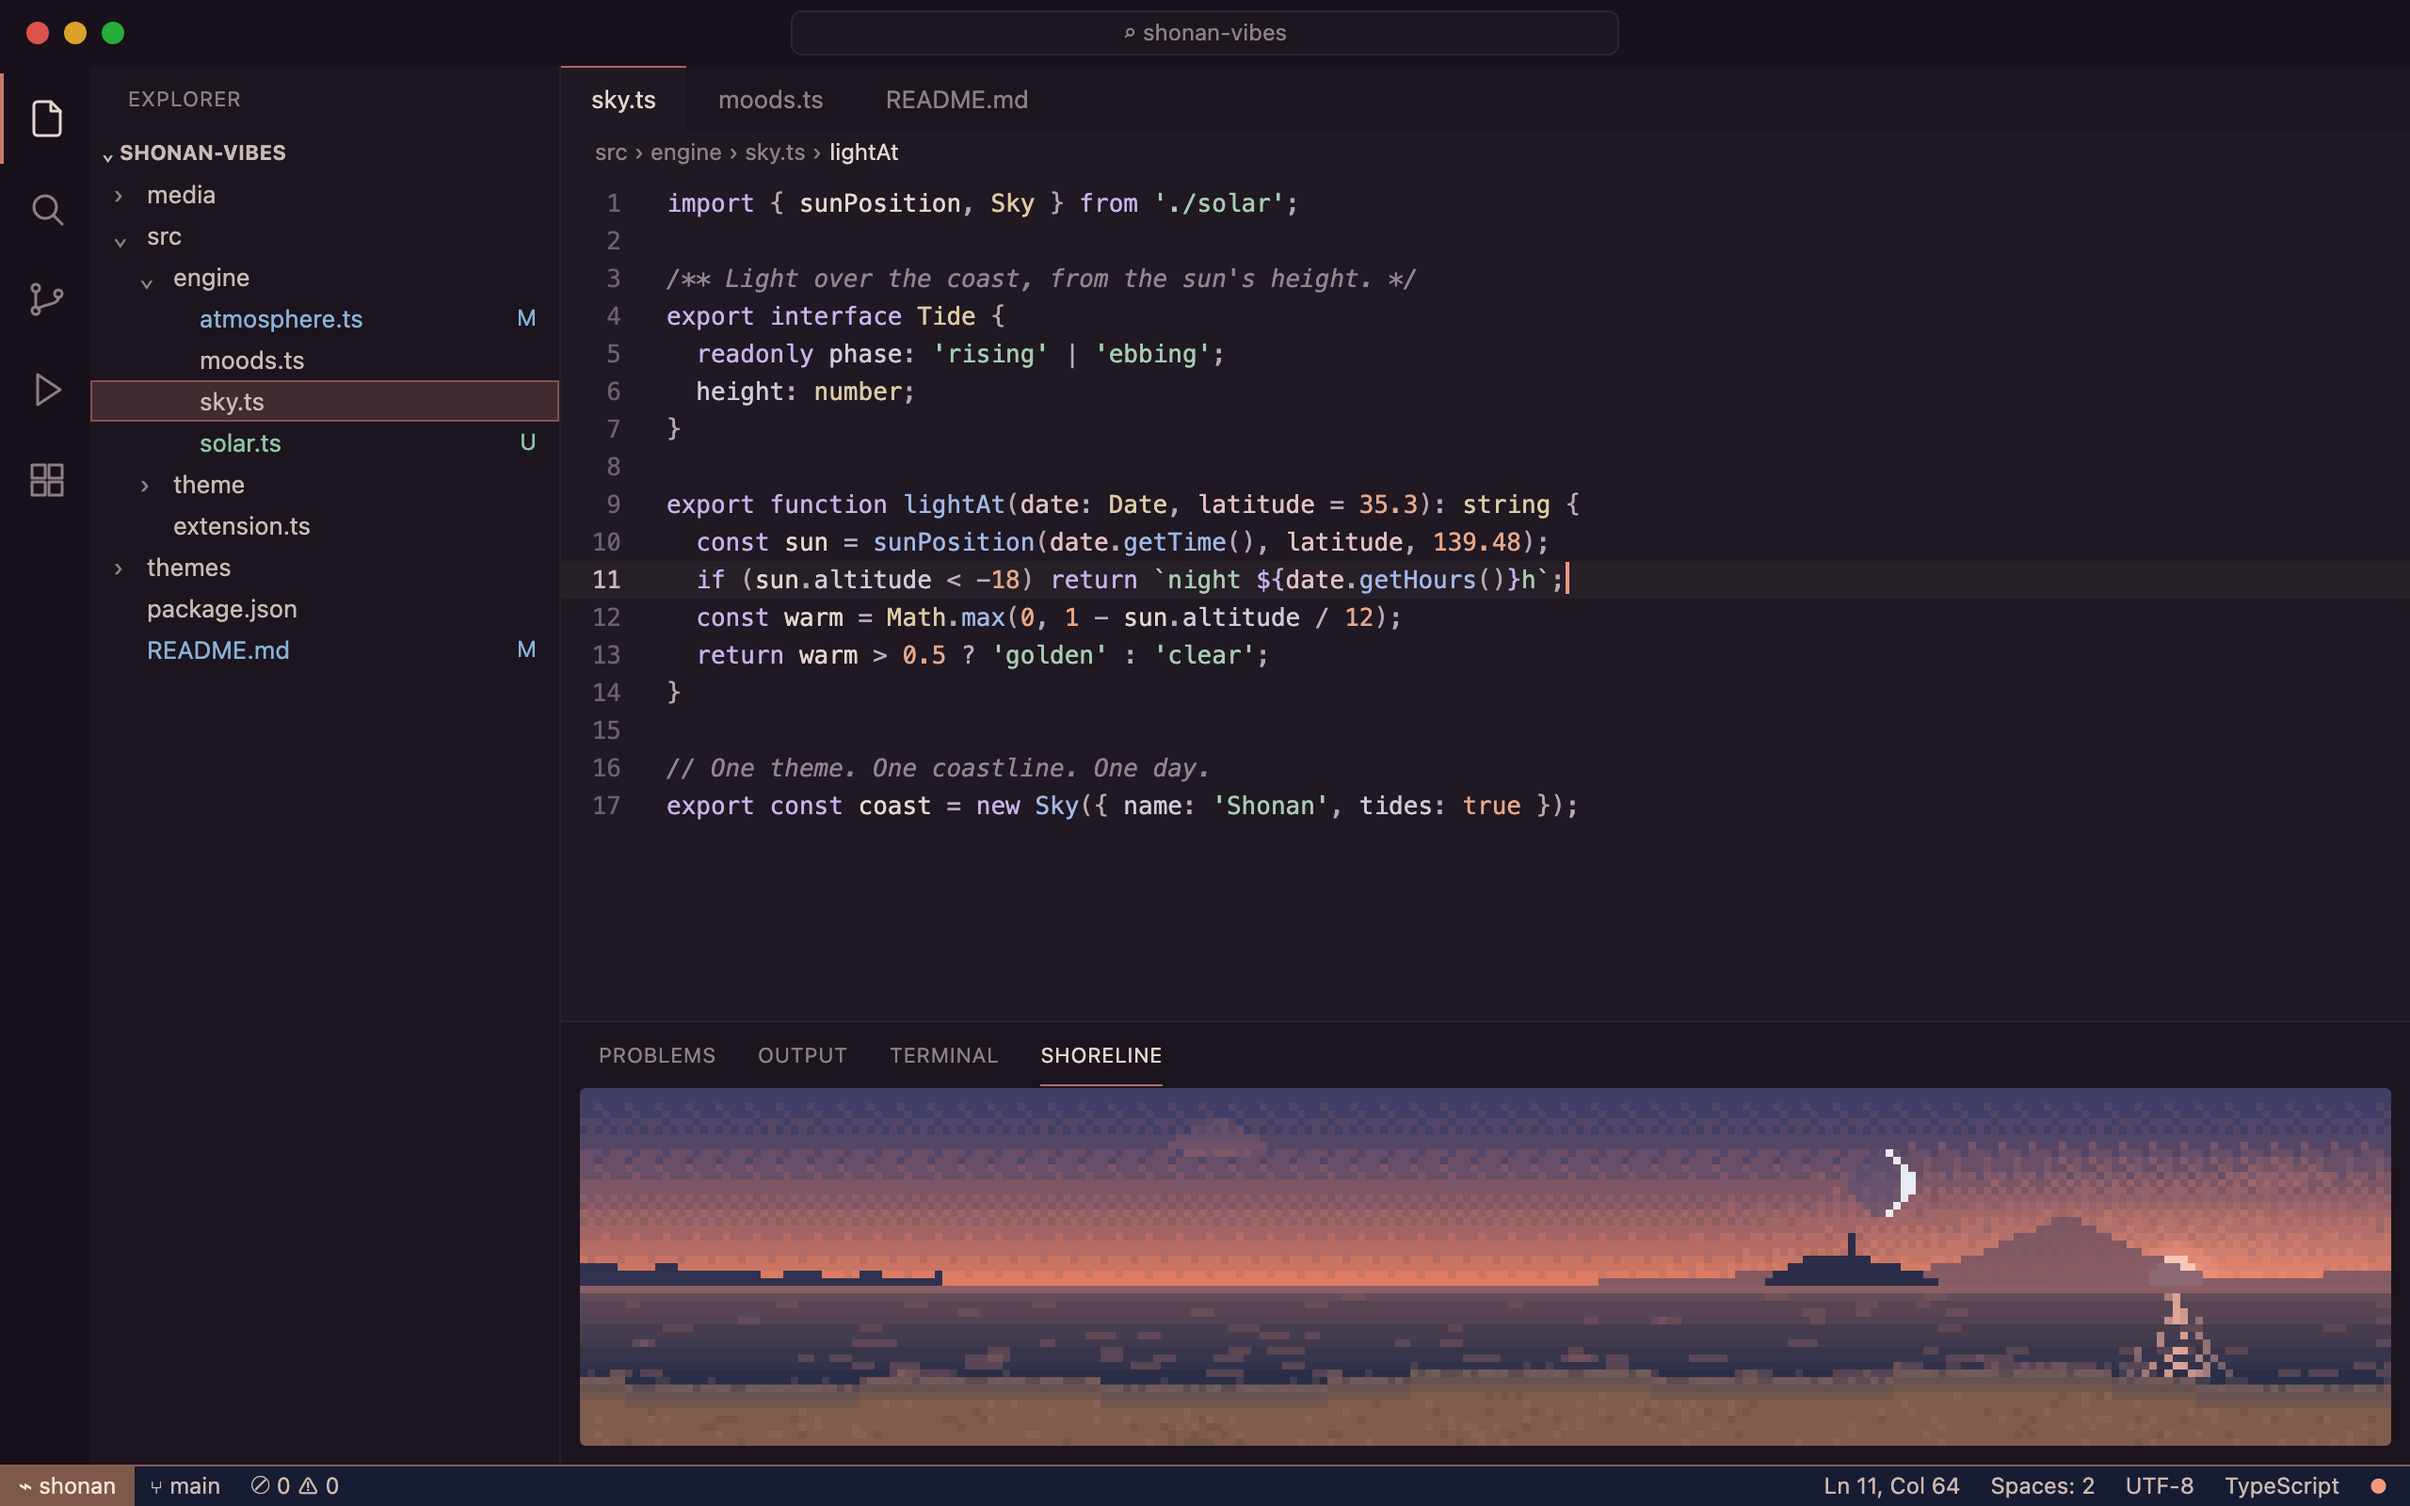
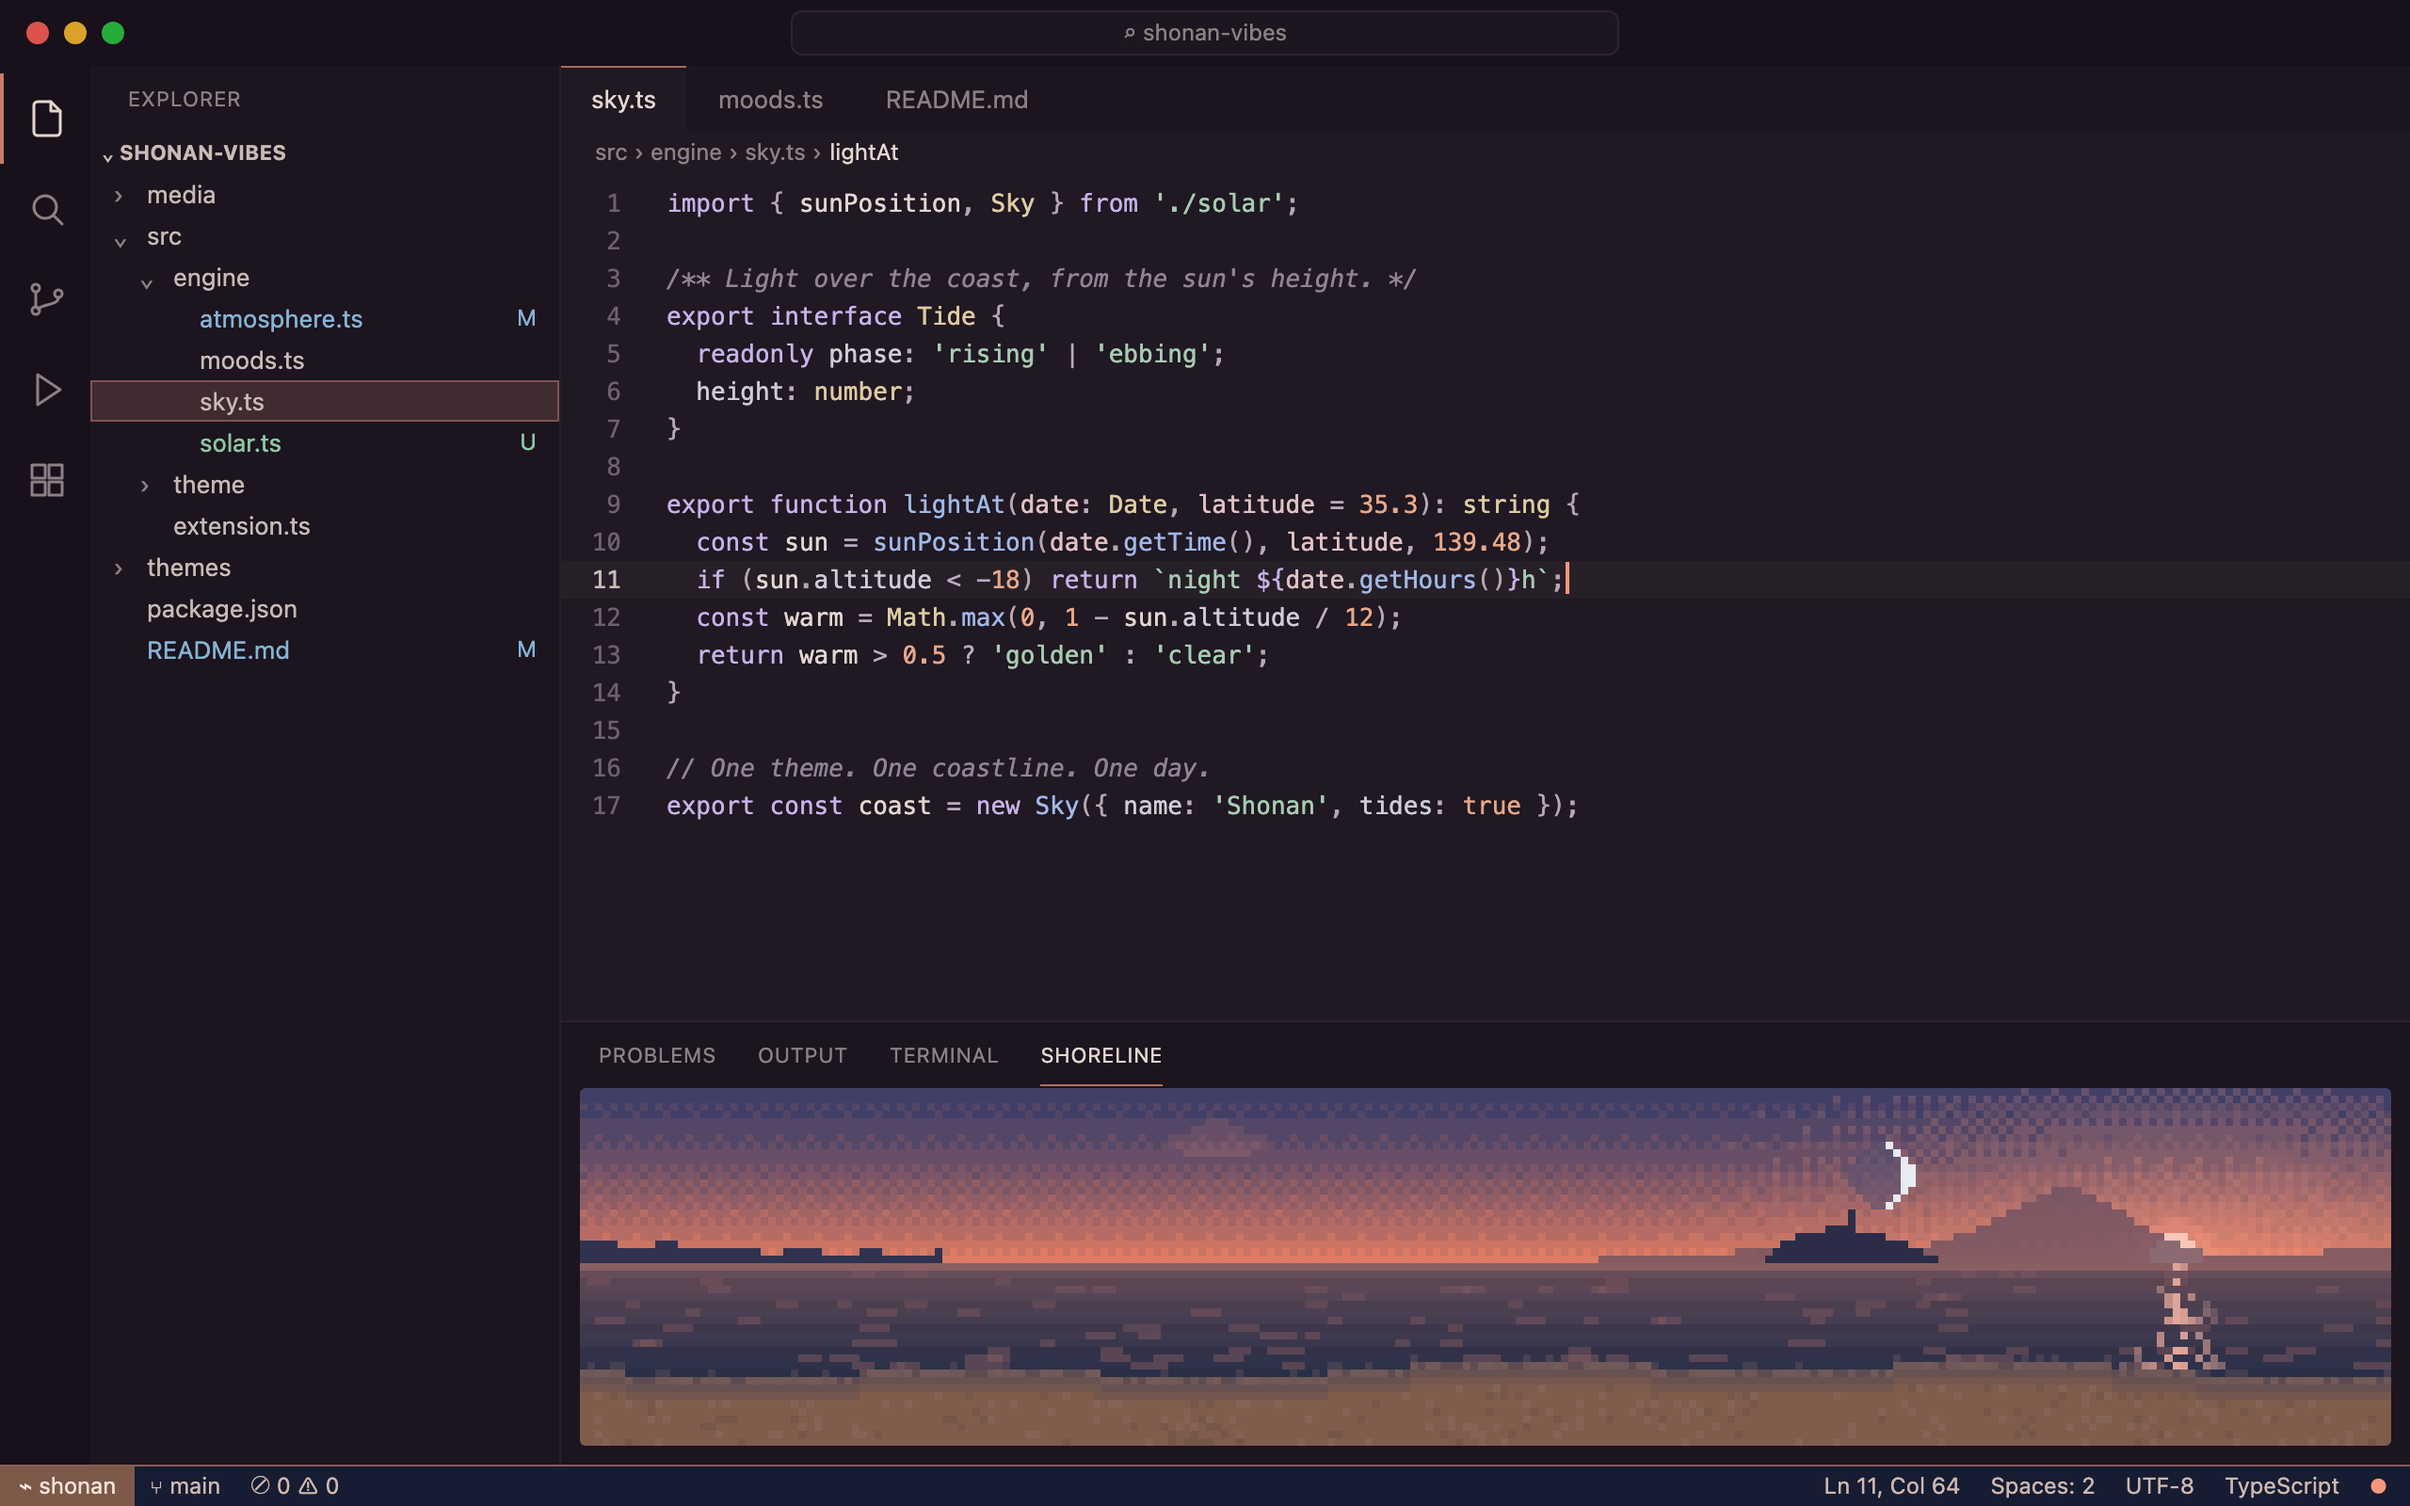
Release 0.2.1: a taller Shoreline panel shows more sky
Making the panel taller no longer stretches the pixel scene. Pixels stay
square and are sized by the panel's width; the sea and beach keep their
height and the extra rows become sky, so the midday sun climbs higher and
the sunset gradient fills the whole panel. Mountain, island and lighthouse
sizes follow the width; very short panels still shrink everything together.

Changed region(s): [[0.2188, 0.7188, 1.0, 0.9375], [0.25, 0.9062, 0.5938, 0.9375], [0.6875, 0.9062, 0.7188, 0.9375]]

diff --git a/media/shoreline.js b/media/shoreline.js
@@ -82,16 +82,33 @@
   // Layout
   // ------------------------------------------------------------------------
 
+  // Square pixels, sized by the panel's width. A taller panel never stretches
+  // the picture; the extra rows become more sky (see layout()).
   function resize() {
     const rect = canvas.getBoundingClientRect();
     if (!rect.width || !rect.height) return false;
-    const W = mode === 'panel' ? 256 : 240;
-    const H = Math.max(36, Math.min(160, Math.round((W * rect.height) / rect.width)));
+    const across = mode === 'panel' ? 256 : 240;
+    const px = Math.max(rect.width / across, rect.height / 600);
+    const W = Math.max(1, Math.round(rect.width / px));
+    const H = Math.max(12, Math.round(rect.height / px));
     if (canvas.width !== W || canvas.height !== H) {
       canvas.width = W;
       canvas.height = H;
     }
     return true;
+  }
+
+  // The ground (sea and beach) keeps its height; the sky takes the rest.
+  // Only very short panels shrink everything together (fit < 1).
+  const SEA = 18;
+  const BEACH = 14;
+  const MIN_SKY = 30;
+  function layout(W, H) {
+    const k = W / 240;
+    const fit = Math.min(1, H / ((SEA + BEACH + MIN_SKY) * k));
+    const horizonY = H - Math.round((SEA + BEACH) * k * fit);
+    const shoreY = horizonY + Math.round(SEA * k * fit);
+    return { horizonY, shoreY, fit };
   }
 
   // Azimuth (90 east … 270 west) to x, facing south.
@@ -145,8 +162,7 @@
     const clouds = clamp01(frame.cloudCover || 0);
     const t = motion && !reduceMotion.matches ? tick : 0;
 
-    const horizonY = Math.round(H * 0.56);
-    const shoreY = Math.round(H * 0.8);
+    const { horizonY, shoreY, fit } = layout(W, H);
 
     // Light source on screen
     const sunUp = frame.sun.altitude > -1.5;
@@ -158,7 +174,7 @@
     const lowSun = sunUp ? 1 - clamp01(frame.sun.altitude / 35) : 0;
 
     // --- Sky: banded gradient, then a dithered halo around the sun
-    const BANDS = 8;
+    const BANDS = Math.max(8, Math.round(horizonY / 5));
     for (let y = 0; y < horizonY; y++) {
       const v = Math.pow(y / Math.max(1, horizonY - 1), 1.45) * BANDS;
       for (let x = 0; x < W; x++) {
@@ -167,7 +183,7 @@
         let c = mix(zenith, horizonSky, Math.min(1, band / BANDS));
         if (sunUp || frame.sun.altitude > -10) {
           const dx = (x - sunX) / (W * 0.32);
-          const dy = (y - Math.max(sunY, horizonY - 2)) / (H * 0.5);
+          const dy = (y - Math.max(sunY, horizonY - 2)) / (W * 0.16);
           const d = Math.sqrt(dx * dx + dy * dy);
           const strength = 0.55 * Math.max(lowSun, frame.sun.altitude < 0 ? clamp01(1 + frame.sun.altitude / 10) : 0);
           const w = Math.pow(clamp01(1 - d), 2) * strength;
@@ -180,7 +196,7 @@
     // --- Stars
     if (night > 0.05) {
       const r = rng(7);
-      const count = Math.round((W * horizonY) / 70);
+      const count = Math.round((W * horizonY) / 85);
       const star = [222, 230, 242];
       for (let i = 0; i < count; i++) {
         const x = Math.floor(r() * W);
@@ -230,7 +246,7 @@
       [2, 6, 9, 7],
       [5, 10, 16, 12, 6],
     ];
-    const nClouds = 2 + Math.round(clouds * 5);
+    const nClouds = Math.round((2 + clouds * 5) * Math.max(1, horizonY / 42));
     const cr = rng(19);
     const lightSide = mix(lift(horizonSky, 0.35), glow, 0.35 * lowSun);
     const darkSide = mix(zenith, horizonSky, 0.45);
@@ -239,7 +255,7 @@
       const shape = cloudShapes[i % cloudShapes.length];
       const drift = (frame.minutes || 0) * 0.04 + cr() * W;
       const cx = Math.round(drift % (W + 30)) - 15;
-      const cy = Math.round(4 + cr() * (horizonY * 0.55));
+      const cy = Math.round(4 + cr() * (horizonY * 0.6));
       const alpha = (0.28 + 0.4 * clouds) * (0.5 + 0.5 * Math.max(daylight, 1 - night));
       shape.forEach((w, row) => {
         for (let x = -Math.floor(w / 2); x < Math.ceil(w / 2); x++) {
@@ -256,7 +272,7 @@
       const u = x / W;
       let h = 1.5 + Math.sin(u * 40) * 0.6 + Math.sin(u * 17 + 1) * 0.9;
       const peak = Math.max(0, 1 - Math.abs(u - 0.82) / 0.085);
-      h += Math.pow(peak, 1.35) * H * 0.13;
+      h += Math.pow(peak, 1.35) * W * 0.04 * fit;
       h *= clamp01((u - 0.56) / 0.06);
       for (let y = 0; y < h; y++) blend(x, horizonY - 1 - y, ridgeBase, ridgeAlpha);
     }
@@ -267,11 +283,11 @@
     const ix1 = Math.round(W * 0.745);
     for (let x = ix0; x <= ix1; x++) {
       const u = (x - ix0) / (ix1 - ix0);
-      const h = Math.round(Math.sin(Math.PI * Math.pow(u, 0.8)) * H * 0.065) + 1;
+      const h = Math.round(Math.sin(Math.PI * Math.pow(u, 0.8)) * W * 0.02 * fit) + 1;
       for (let y = 0; y < h; y++) set(x, horizonY - 1 - y, isle);
     }
     const lx = Math.round(W * 0.7);
-    const lTop = horizonY - 1 - Math.round(H * 0.065) - 4;
+    const lTop = horizonY - 1 - Math.round(W * 0.02 * fit) - Math.max(2, Math.round(4 * fit));
     for (let y = lTop + 1; y < horizonY - 1; y++) set(lx, y, isle);
     if (night > 0.2) {
       const pulse = t ? (Math.floor(t / 2) % 3 === 0 ? 1 : 0.55) : 0.85;

diff --git a/CHANGELOG.md b/CHANGELOG.md
@@ -1,5 +1,9 @@
 # Changelog
 
+## 0.2.1
+
+- Shoreline: making the panel taller no longer stretches the picture. Pixels stay square, the sea and beach keep their height, and the extra space becomes more sky (the midday sun climbs higher in a tall panel).
+
 ## 0.2.0
 
 - Midday is now a blue sky: the editor opens from night navy into a clear sky blue through the morning, and syntax colors become pale tints that float on it (lilac keywords, ice-blue functions, green strings, peach numbers, sunlight-yellow types).
